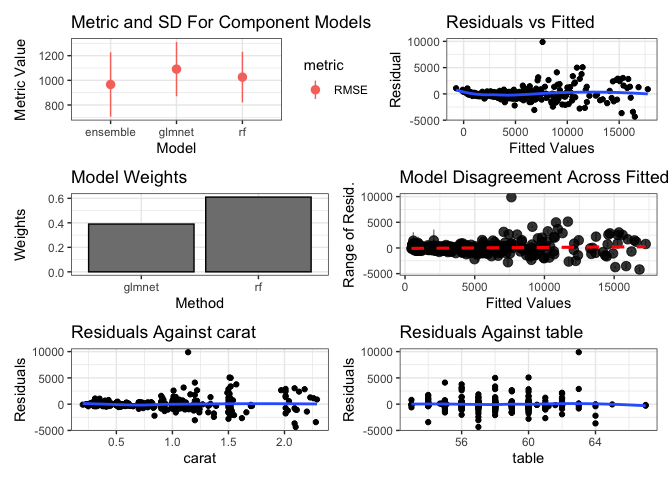
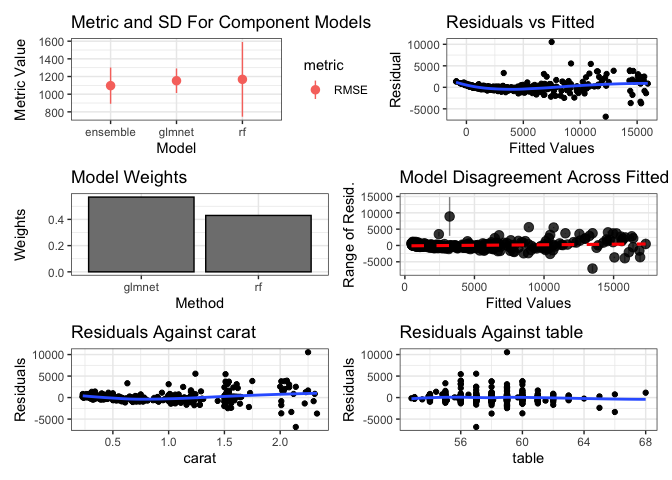
rebuild

diff --git a/README.md b/README.md
@@ -48,8 +48,8 @@ print(summary(models))
 #> Model accuracy:
 #>    model_name metric    value       sd
 #>        <char> <char>    <num>    <num>
-#> 1:         rf   RMSE 1026.143 204.5738
-#> 2:     glmnet   RMSE 1091.047 220.2271
+#> 1:         rf   RMSE 1168.108 422.9558
+#> 2:     glmnet   RMSE 1152.298 138.8310
 ```
 
 Then, use caretEnsemble to make a greedy ensemble of these models
@@ -67,18 +67,18 @@ print(greedy_stack)
 #> Summary of sample sizes: 400, 400, 400, 400, 400 
 #> Resampling results:
 #> 
-#>   RMSE      Rsquared  MAE    
-#>   966.2307  0.941552  529.645
+#>   RMSE     Rsquared  MAE    
+#>   1096.53  0.933482  631.215
 #> 
 #> Tuning parameter 'max_iter' was held constant at a value of 100
 #> 
 #> Final model:
 #> Greedy MSE
-#> RMSE:  992.028 
+#> RMSE:  1067.635 
 #> Weights:
 #>        [,1]
-#> rf     0.61
-#> glmnet 0.39
+#> rf     0.43
+#> glmnet 0.57
 ```
 
 You can also use caretStack to make a non-linear ensemble
@@ -98,7 +98,7 @@ print(rf_stack)
 #> Resampling results:
 #> 
 #>   RMSE      Rsquared   MAE     
-#>   980.4323  0.9397299  494.7951
+#>   1005.629  0.9423501  490.6683
 #> 
 #> Tuning parameter 'mtry' was held constant at a value of 2
 #> 
@@ -110,8 +110,8 @@ print(rf_stack)
 #>                      Number of trees: 500
 #> No. of variables tried at each split: 2
 #> 
-#>           Mean of squared residuals: 1107274
-#>                     % Var explained: 93.09
+#>           Mean of squared residuals: 1007817
+#>                     % Var explained: 94.29
 ```
 
 Use autoplot from ggplot2 to plot ensemble diagnostics:
